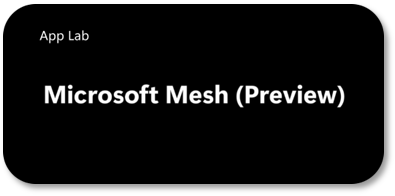
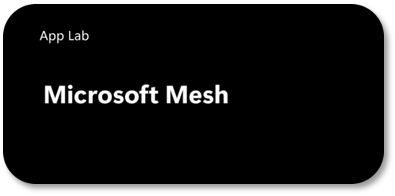
updating screenshots on troubleshooting page

Changed region(s): [[0.5772, 0.4286, 0.881, 0.551]]

diff --git a/mesh/Resources/mesh-troubleshooting.md b/mesh/Resources/mesh-troubleshooting.md
@@ -49,7 +49,7 @@ We currently do not support this feature.
 
 ### How to download Mesh on Quest 2 via App Lab
 
-Microsoft Mesh (Preview) for Meta Quest devices is available through AppLab.
+Microsoft Mesh for Meta Quest devices is available through AppLab.
 
 If you had previously downloaded the **Napili** app on your Quest 2 device, you should move to the new app available at the link below.
 
@@ -58,7 +58,7 @@ If you had previously downloaded the **Napili** app on your Quest 2 device, you 
 1. On your PC, visit the link below to download Mesh on Quest 2.
 
     > [!div class="nextstepaction"]
-    > [Microsoft Mesh (Preview) on Oculus Quest 2 \| Oculus](https://www.meta.com/experiences/6750166401689690/)
+    > [Microsoft Mesh on Oculus Quest 2 \| Oculus](https://www.meta.com/experiences/6750166401689690/)
 
     If the URL doesn't work, use a new private window in your browser.
 
@@ -67,15 +67,15 @@ If you had previously downloaded the **Napili** app on your Quest 2 device, you 
 
     [Can't find your Meta account associated with your Quest 2 device?](#how-do-i-find-my-meta-id)
 
-    ![Screenshot of the Meta Mesh Preview webpage](media/meta-mesh-preview.png)
+    ![Log in to meta account](media/log-in-meta.png)
 
 3. Once authenticated, select the **Get** button.
 
-    ![Screenshot of the Meta Mesh Preview - Get button](media/meta-mesh-preview-get.png)
+    ![Screenshot of the Meta Mesh page on Meta](media/mesh-meta-quest-get.png)
 
 4. You'll see the button grey out and change from **Get** to **Purchased** which indicates that the app has been acquired.
 
-    ![Log in with your Meta account confirmation page](media/meta-mesh-preview-confirmation.png)
+    ![Log in with your Meta account confirmation page](media/mesh-meta-purchased.png)
 
     >[!Note]
     >You may need to restart your headset to ensure the app loads.
